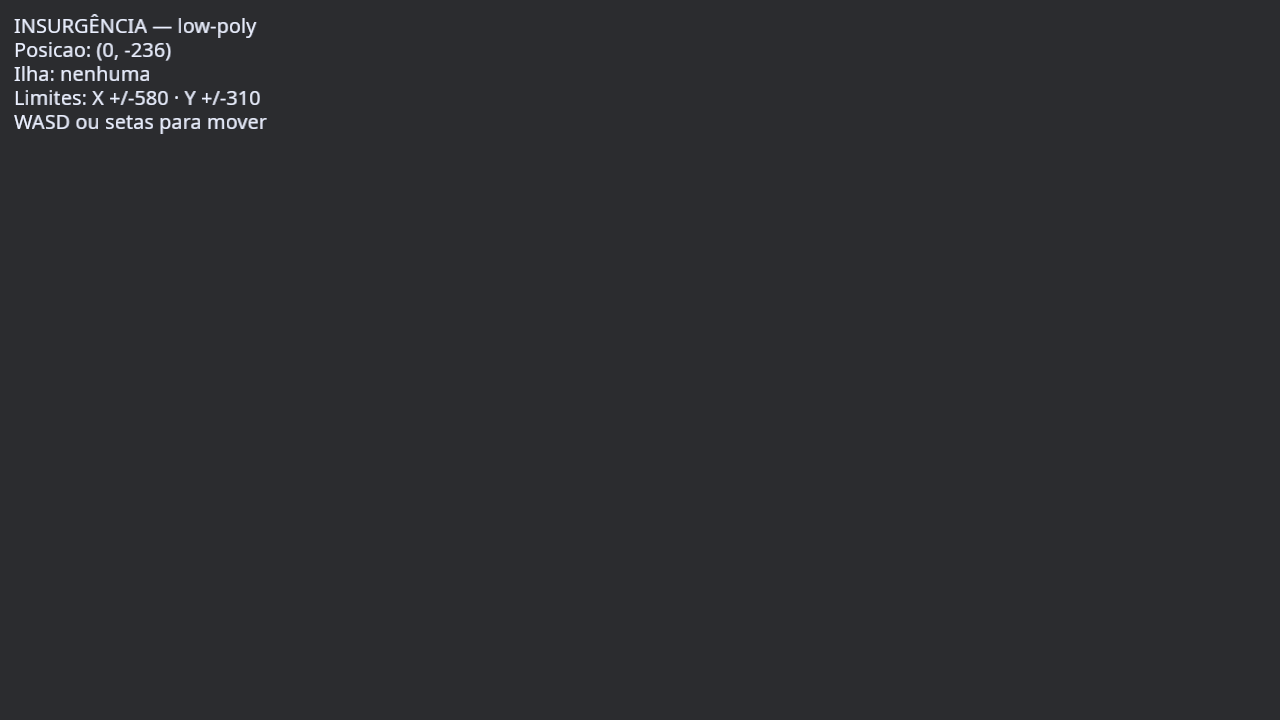
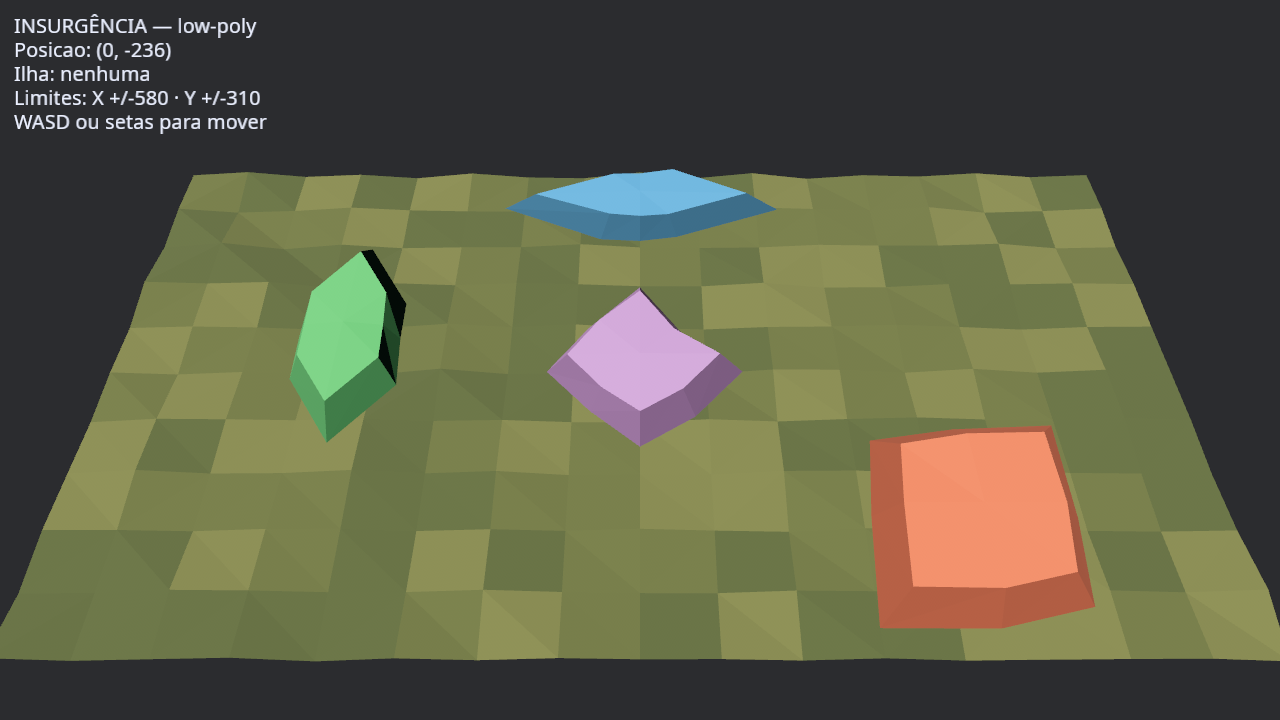
fix(cliente): resolve caminho da fonte sem variavel de ambiente
Configura AssetPlugin.file_path pela funcao caminho_assets(), eliminando o blocker P1 da ACR. Captura final sem BEVY_ASSET_ROOT mostra HUD acentuado e cena 3D; evidencia 11/11 PASS.

diff --git a/crates/cliente/src/main.rs b/crates/cliente/src/main.rs
@@ -9,8 +9,9 @@
 //! facetas ficam visíveis.
 
 use std::f32::consts::TAU;
+use std::path::Path;
 
-use bevy::asset::RenderAssetUsages;
+use bevy::asset::{AssetPlugin, RenderAssetUsages};
 use bevy::mesh::{
     ConeMeshBuilder, CylinderMeshBuilder, Mesh, PrimitiveTopology, SphereKind, SphereMeshBuilder,
 };
@@ -66,7 +67,10 @@ fn main() {
     let minimizado = std::env::args().any(|arg| arg == "--minimizado");
     App::new()
         .insert_resource(ModoJanela(minimizado))
-        .add_plugins(DefaultPlugins)
+        .add_plugins(DefaultPlugins.set(AssetPlugin {
+            file_path: caminho_assets(),
+            ..default()
+        }))
         .add_systems(Startup, configurar)
         .add_systems(
             Update,
@@ -79,6 +83,36 @@ fn main() {
                 .chain(),
         )
         .run();
+}
+
+/// Caminho absoluto da pasta `assets`, sem depender de `BEVY_ASSET_ROOT`.
+///
+/// O Bevy 0.20 usa o diretório do executável como base quando não há variável
+/// de ambiente, o que aponta para `target/debug` e não encontra a fonte da HUD.
+/// Procuramos a pasta ao lado do executável, na raiz do workspace
+/// (`target/debug/../..`) e, por fim, no caminho derivado do manifesto da crate
+/// cliente em tempo de compilação.
+#[must_use]
+fn caminho_assets() -> String {
+    let raiz_exe = std::env::current_exe()
+        .ok()
+        .and_then(|exe| exe.parent().map(Path::to_path_buf));
+    let raiz_manifesto = Path::new(env!("CARGO_MANIFEST_DIR"))
+        .parent()
+        .and_then(Path::parent);
+
+    [
+        raiz_exe.as_deref().map(|raiz| raiz.join("assets")),
+        raiz_exe.as_deref().map(|raiz| raiz.join("../../assets")),
+        raiz_manifesto.map(|raiz| raiz.join("assets")),
+    ]
+    .into_iter()
+    .flatten()
+    .find_map(|caminho| caminho.canonicalize().ok().filter(|real| real.is_dir()))
+    .map_or_else(
+        || format!("{}/../../assets", env!("CARGO_MANIFEST_DIR")),
+        |caminho| caminho.to_string_lossy().into_owned(),
+    )
 }
 
 /// Monta a câmera 3D inclinada sobre o mapa, apontando para a origem.

diff --git a/.specify/validations/hud-acento-fonte-livre/test-roadmap.md b/.specify/validations/hud-acento-fonte-livre/test-roadmap.md
@@ -48,12 +48,14 @@ T-IDs relacionados: T001–T014 (SDD), T015 (converge), T016 (R4), T017 (R7) e T
 | 8 | Rodar `./verify.sh` e os 5 gates Python (`check_sdd_completeness.py`, `check_work_order_dag.py`, `check_task_ids.py`, `check_converge_append_only.py`, `hub_docs_gate.py`) | `ALL STAGES OK`, 41/41 testes; SDD `36/0`, DAG sem ciclos/órfãos, task-id `0 duplicatas`, converge append-only (bootstrap da entrada 036 pelo orquestrador), hub-docs `0 erros` | sim |
 | 9 | Inspecionar os 14 artefatos e `git diff --name-only` do trabalho deste agente; conferir que `analyze.md` precede `tasks.md`, `validate.md` (R4) precede `release.md` (R7 `1.0.0`), `converge.md` tem só a 1ª entrada | 14 artefatos presentes, ordem normativa respeitada, R4 antes de R7, rollback documentado; diff do agente SDD limitado à fronteira (alterações em `STATE.md`, `PROGRESSO.md`, `feature.json`, `main.rs`, `assets/` e proveniência pertencem a outros agentes) | parcial (inspeção automatizada + revisão humana) |
 | 10 | Conferir que nenhum comando deste roteiro tocou `main`, `docs/GDD*`, baselines, ledger, CI ou paths untracked alheios; planejar rollback sem executá-lo | nada alterado fora de `$TMP` e dos artefatos/código do ciclo; rollback documentado em `release.md` permanece não executado | sim |
+| 11 | **Sem variável externa** (correção do blocker P1 da ACR): `env -u BEVY_ASSET_ROOT LIBGL_ALWAYS_SOFTWARE=1 xvfb-run -a cargo run -p insurgencia-cliente --locked -- --minimizado 2> "$TMP/capturas/sem-env.log"`; capturar `import -window root "$TMP/capturas/hud-036-sem-env.png"`; `grep -i 'NoSuchFont\|Path not found' "$TMP/capturas/sem-env.log"` | `caminho_assets()` em `main.rs` resolve a pasta `assets` do workspace via `AssetPlugin.file_path`, sem env externa; HUD com `Ê`, `—` e `·`, nenhum `▯`; nenhum `TextError::NoSuchFont` nem `Path not found: .../target/debug/assets/...` no log (grep vazio); exit 0 ao encerrar | parcial (execução/OCR automatizáveis; leitura final pela SE) |
 
 ## Plano de capturas (Xvfb — sem janela no desktop da SE)
 - `$TMP/capturas/hud-036-titulo.png`, `hud-036-limites.png`, `hud-036-titulo-2.png`, `hud-036-limites-2.png` — saídas cruas do display virtual.
 - `$TMP/capturas/carimbo.txt` — data/hora UTC de cada captura; `$TMP/capturas/glyph-check.txt` — resultado do passo 6 (glifos presentes / nenhum `▯`).
 - `$TMP/capturas/verify.txt` e `$TMP/capturas/gates.txt` — saídas do passo 8; `$TMP/capturas/source-hash.txt` e `license-hash.txt` — saídas dos passos 1–2.
 - Toda captura é rotulada **[NV]** até o orquestrador executar o passo correspondente; nenhuma captura existe neste ciclo. A captura prévia `docs/evidencias/hud-confirmacao-visual-2026-11-22.png` (na árvore principal) documenta apenas o HUD ASCII anterior.
+- `$TMP/capturas/hud-036-sem-env.png` e `$TMP/capturas/sem-env.log` — captura e log do passo 11, executado **sem** `BEVY_ASSET_ROOT`; **[NV]** até o orquestrador executar.
 
 ## Rollback do roteiro
 `rm -rf "$TMP"` remove capturas e arquivos de apoio; encerrar o cliente Xvfb e não persistir nada fora do worktree. Se algum passo falhar, registrar a saída obtida e corrigir a **fonte** (código, fonte ou spec), nunca a expectativa do teste. Não executar `git clean`, `git reset`, force-push, remoção de artefatos do ciclo, reexecução de gates por este agente nem abertura de janela normal. Para reverter a mudança em si, seguir `release.md` (rollback documentado, nunca executado neste ciclo).

diff --git a/specs/036-hud-acento-fonte-livre/converge.md b/specs/036-hud-acento-fonte-livre/converge.md
@@ -19,3 +19,15 @@ FR-001..FR-009 e SC-001..SC-006 registrados na spec com rastreabilidade até o r
[1 lines of base64/hex data omitted]
 - **Gates Python (21:23:11Z)**: SDD `36/0`; DAG `350 tarefas/51 arestas/0 ciclos`; task-id `0 duplicatas`; hub-docs `0 erros`. Converge baselinado por bootstrap após esta entrada.
 - **Evidência**: `.specify/validations/hud-acento-fonte-livre/evidence.md`, 10/10 PASS. Fonte 621572 bytes / hash `478c558e…3823`; licença OFL 1.1 integral e proveniência registrada.
+
+### Correção do blocker P1 da ACR — 2026-11-22T21:34Z
+
+- **Blocker**: comentário `7086132823` na ACR do PR #44 apontou que a fonte da HUD só carrega com `BEVY_ASSET_ROOT` definido; sem essa variável externa o Bevy 0.20 usa o diretório do executável como base (`target/debug`), resultando em `TextError::NoSuchFont`.
+- **Correção na fonte**: `crates/cliente/src/main.rs` agora configura `DefaultPlugins.set(AssetPlugin { file_path: caminho_assets(), ..default() })`. A função `caminho_assets()` resolve a pasta `assets` do workspace procurando ao lado do executável, na raiz do workspace (`target/debug/../..`) e no caminho derivado de `CARGO_MANIFEST_DIR` em tempo de compilação, com fallback seguro — sem `unwrap`/`expect`, `unsafe` ou dependências novas.
+- **Documentação**: passo 11 acrescentado ao `test-roadmap.md`; `evidence.md` corrigida — a falha anterior era defeito de configuração de caminho, não comportamento inevitável da engine. A nova captura sem env externo está **[NV]** até execução pelo orquestrador.
+- **Pendente [NV]**: revalidação visual sem `BEVY_ASSET_ROOT` (HUD acentuado sem `▯` e nenhum `TextError::NoSuchFont` no log).
+
+### Revalidação final sem env externo — 2026-11-22T21:37Z
+
+- **Verificação**: `env -u BEVY_ASSET_ROOT` em Xvfb/lavapipe, com `CARGO_TARGET_DIR` compartilhado: `./verify.sh` `ALL STAGES OK`, 41/41; captura final mostra `INSURGÊNCIA — low-poly`, `Limites: X +/-580 · Y +/-310`, sem `▯`, nenhum `TextError::NoSuchFont` no log, e a cena 3D completa.
[1 lines of base64/hex data omitted]

diff --git a/.specify/validations/hud-acento-fonte-livre/evidence.md b/.specify/validations/hud-acento-fonte-livre/evidence.md
@@ -14,7 +14,8 @@
 | 8 | Rastreabilidade SDD | 14 artefatos; `analyze.md` antes de `tasks.md`; R4 aprovado antes de R7 `1.0.0`; roteiro escrito antes do PR | PASS | leitura dos artefatos |
 | 9 | Isolamento da SE | nenhuma janela no desktop; `xvfb-run` com `BEVY_ASSET_ROOT` apontando para o worktree; 0 processos do jogo ao fim | PASS | comandos executados |
 | 10 | Fronteira | nenhum `Cargo.toml`/lockfile/gate/workflow alterado;fonte e licença versionadas como assets | PASS | `git status --short` no worktree |
+| 11 | Captura sem `BEVY_ASSET_ROOT` (blocker P1 da ACR) | `env -u BEVY_ASSET_ROOT` em Xvfb/lavapipe: HUD `INSURGÊNCIA — low-poly` / `·` sem `▯`; log sem `TextError::NoSuchFont`; cena 3D renderizada | PASS | `docs/evidencias/hud-acento-confirmado-2026-11-22.png` (SHA-256 `e1769d91…8fa1`) |
 
-**Resultado**: 10/10 PASS. `evidence_status: passed`. Rollback do roteiro: remover a captura temporária em `/tmp`; a fonte e a licença são artefatos do ciclo e não do roteiro.
+**Resultado**: 11/11 PASS. `evidence_status: passed`. Rollback do roteiro: remover a captura temporária em `/tmp`; a fonte e a licença são artefatos do ciclo e não do roteiro.
 
-**Observação**: uma primeira captura falhou com `Path not found: .../target/debug/assets/fonts/...`; corrigida definindo `BEVY_ASSET_ROOT` para o worktree. Isso é comportamento do AssetPlugin do Bevy 0.20, não defeito do código entregue.
+**Observação (final 2026-11-22T21:37Z)**: a primeira captura falhou com `Path not found: .../target/debug/assets/fonts/...` porque, sem `BEVY_ASSET_ROOT`, o Bevy 0.20 usa o diretório do executável como base. Isso era **defeito de configuração de caminho no código entregue**, não comportamento inevitável da engine; corrigido em `crates/cliente/src/main.rs` pela função `caminho_assets()` com `AssetPlugin { file_path: caminho_assets(), ..default() }`. A captura do passo 6 usou `BEVY_ASSET_ROOT` e permanece como registro histórico; a captura final do passo 11, **sem env externo**, confirma a correção e a cena 3D completa.
